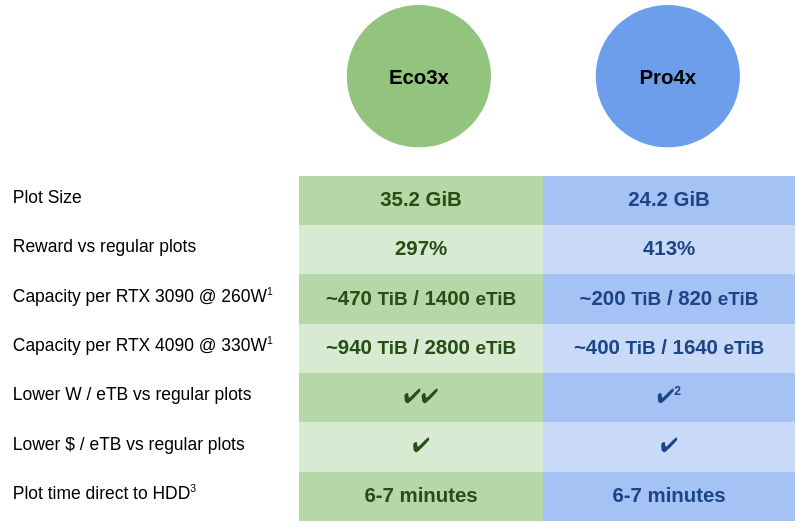
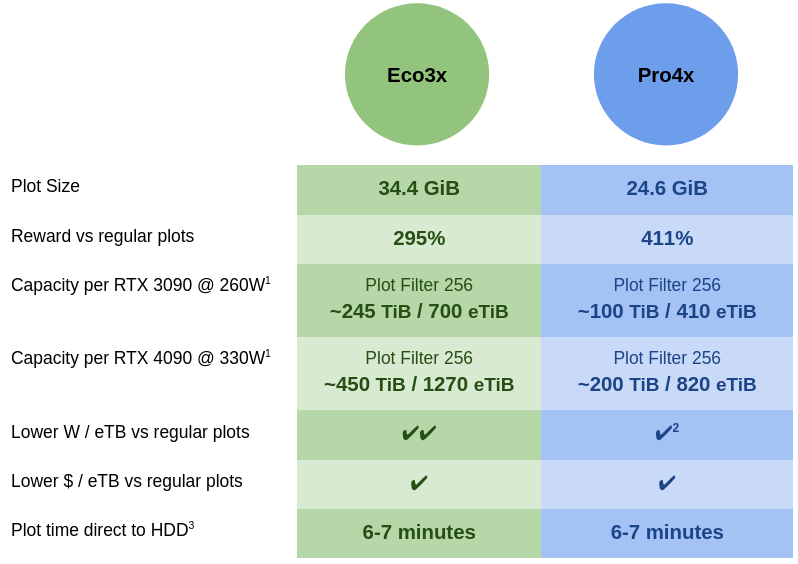
Update readme (#12)
* Update README.md

diff --git a/README.md b/README.md
@@ -17,8 +17,8 @@ Offering Eco3x for enhanced energy efficiency and Pro4x for maximum plot size re
   <img src="images/drplotter-plots-summary.png" />
 </p>
 
-<sup>1: capacities with current chia plot filter of 512. For a plot filter of 256 halve these values.</sup>
-<sup>2: at a plot filter of 256 (expected June 2024), currently only the 4090 has less W/eTB than standard plots on pro4x.</sup>
+<sup>1: The 512 plot filter will be active until June 2024. During this period, the capacities supported by the 256 filter will be doubled.</sup>
+<sup>2: At a plot filter of 256 only the 4090 has less W/eTB than standard plots on pro4x.</sup>
 <sup>3: **SSD not required.** While you can use an SSD as an intermediary drive under most cases it will not improve plot time.</sup>
 
 ## The Eco3x Advantage
@@ -41,6 +41,34 @@ Pro4x compression significantly reduces hard drive needs for your plots to less 
 </p>
 <sub>1: Using 0.6W per installed TB</sub>
 <sub>2: The "Hardware Cost per ePiB" represents the actual costs of purchasing the necessary hardware for disks and GPUs. This is based on an estimated $16 per installed TB and $1800 for a new 4090 GPU</sub>
+
+## Strategic Efficiency: Eco3x and Pro4x vs. NoSSD's C15
+In the competitive landscape of chia farming, striking the right balance between energy consumption and cost per reward is key. Chia farming involves substantial initial setup costs but low ongoing expenses. The Eco3x and Pro4x solutions, developed with these economic dynamics in mind, optimize for a slight increase in energy use to significantly reduce the cost per reward across various setups and market conditions, offering a financial advantage.
+
+The performance of these solutions is contrasted with NoSSD's leading C15 plot format under a fixed $10,000 budget. Analysis shows that both Eco3x and Pro4x not only improve chia earnings but do so with an acceptable increase in energy consumption. Specifically, Eco3x delivers an extra 0.08 xch for 4.79 kWh more than C15, while Pro4x adds 0.14 xch for an additional 11.21 kWh.
+
+<p align="center" alt="DrPlotter Eco3x and Pro4x vs NoSSD C15">
+  <img src="images/Eco3x-Pro4x-vs-NoSSDC15.png" />
+</p>
+
+<sub>1: Hardware Cost includes expenses for disks and GPUs, calculated at $16 per installed TB and $1600 for a 4090 GPU. GPU costs are adjusted to utilization—e.g., at 38% utilization, only 38% of the GPU cost is counted. This approach ensures costs are proportionally represented for a fair comparison within a $10,000 investment.</sub>
+
+By evaluating the potential xch price against energy costs, it's clear that Eco3x and Pro4x are compelling for those seeking profitability over minimal energy use. For example, if your electricity costs are $0.14 per kWh with XCH priced at $30:
+
+```
+Eco3x extra earnings - extra energy costs = 0.08 * $30 - 4.79 * $0.14  = +$1.72 vs NoSSD.
+Pro4x extra earnings - extra energy costs = 0.14 * $30 - 11.21 * $0.14 = +$2.63 vs NoSSD.
+```
+These figures highlight Pro4x as a strong contender, offering a 38.7% higher daily return than NoSSD's C15 ($9.42 per day vs $6.79 per day), despite a higher energy consumption.
+
+To enhance your decision-making process, the chart below serves as a guide for evaluating risks and potential returns. For those who prefer a cautious approach, opt for a plot format that remains viable at lower XCH prices. 
+
+<p align="center" alt="DrPlotter Eco3x and Pro4x vs NoSSD C15">
+  <img src="images/Consider-Eco3x-Pro4x-NoSSDC15-kWh.png" />
+</p>
+
+> [!IMPORTANT]  
+> The chart provided is tailored to reflect scenarios involving the use of 4090 GPUs, as detailed in the hardware setup section above.
 
 ## Get the Most Out of Your GPU with Eco3x and Pro4x
 
